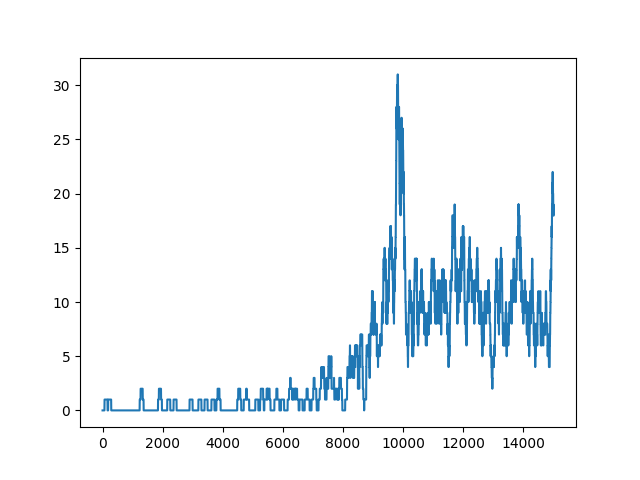
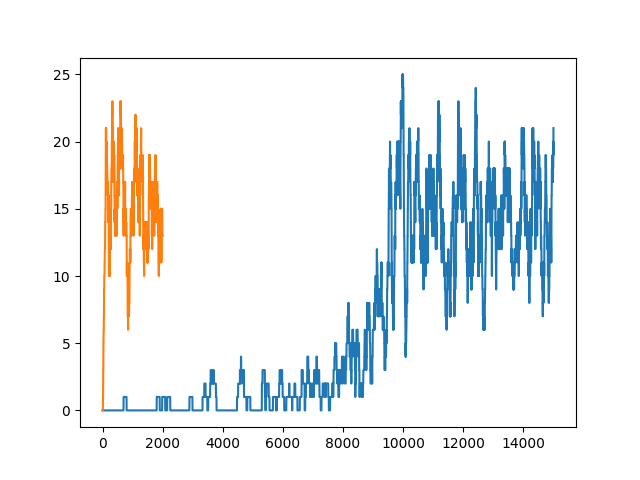
finish part 2

diff --git a/part2/frozen_lake.py b/part2/frozen_lake.py
@@ -75,7 +75,6 @@ def run(episodes, is_training=True, render=False):
         pickle.dump(q, f)
         f.close()
 
-import numpy as np
 
 def value_iteration(env, gamma=0.99, theta=1e-8):
     """
@@ -115,7 +114,7 @@ def value_iteration(env, gamma=0.99, theta=1e-8):
     return policy
 
 def run_value_iteration(episodes=5000, render=False, load=False):
-    env = gym.make('FrozenLake-v1', map_name="8x8", is_slippery=True, render_mode='human' if render else None)
+    env = gym.make('FrozenLake-v1', map_name="8x8", is_slippery=True, success_rate=0.4, render_mode='human' if render else None)
 
     # ---------------- load or compute policy ----------------
     if load:
@@ -142,6 +141,29 @@ def run_value_iteration(episodes=5000, render=False, load=False):
 
     # ---------------- print results ----------------
     print_success_rate(rewards_per_episode)
+
+    # 繪圖: 計算滾動總和 (Rolling Sum) 或 平均值
+    # 你原本的程式碼是計算過去 100 回合的總和
+    sum_rewards = np.zeros(episodes)
+    window_size = 100
+    
+    for t in range(episodes):
+        # 取 max(0, t-100) 到 t+1 的區間總和
+        sum_rewards[t] = np.sum(rewards_per_episode[max(0, t - window_size):(t + 1)])
+
+    plt.figure(figsize=(10, 5))
+    plt.plot(sum_rewards)
+    plt.title(f"Value Iteration Evaluation (8x8)\nRolling Sum of Rewards (Window={window_size})")
+    plt.xlabel("Episodes")
+    plt.ylabel("Sum of Rewards (Last 100 episodes)")
+    plt.grid(True, which='both', linestyle='--', linewidth=0.5)
+    
+    # 存檔圖片
+    img_filename = 'frozen_lake8x8_value_iteration.png'
+    plt.savefig(img_filename)
+    print(f"結果圖表已儲存至: {img_filename}")
+
+    # plt.show() 
 
     env.close()
 
@@ -235,7 +257,7 @@ if __name__ == '__main__':
     run_value_iteration(episodes=2000, render=False, load=True)
 
     # run(15000)
-    # run(1, is_training=False, render=True)
+    # run(2000, is_training=False, render=False)
 
     # run_sarsa(15000)
     # run_sarsa(2000, is_training=False, render=False)
